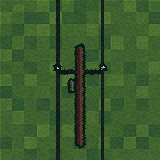
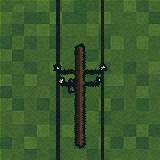
feat(studio): double-crossarm hydro pole and the sprite pack stage
- The hydro pole gets a second, shorter crossarm at z 1.67 — its screen
  height projects exactly to the lower EW wire's anchor line, so both
  sagging wires now visually hang from an arm (each with porcelain
  insulator dots at the tips). Classic double-arm hydro silhouette on the
  NS tile as a bonus.
- `pack.mjs`: the spec's stage-5 pack step. Copies approved
  `rich-pixel-48` renders into `studio/dist/assets/tiles/` under game
  sprite names (34 sprites: 15 roads replacing the 128 px set, 15 new
  rails, 2 rail-road crossings, 2 hydro lines under the existing
  `power-line-*` names) plus a `manifest.json`. Wiring `dist/` into
  `app/public/assets/` and the tile atlas stays a separate, gated step.

Changed region(s): [[0.5, 0.4688, 0.6562, 0.5625], [0.375, 0.4688, 0.4688, 0.5625]]

diff --git a/studio/scenes/pole.py b/studio/scenes/pole.py
@@ -24,13 +24,16 @@ def build(mats):
     # enough (0.17 ~ 2 art cells) that the wood material shows between its
     # ink outlines. Wood role — shaded two-tone by the studio sun.
     box(mats, 'tie', (0, 0, 1.35), (0.17, 0.17, 2.7))
-    # Single long crossarm spanning the wire gauge (tips at ±0.575 screen),
-    # oriented perpendicular to the camera azimuth so it reads horizontal.
-    box(mats, 'tie', (0, 0, 2.0), (1.15, 0.09, 0.08), (0, 0, math.radians(135)))
-    # Porcelain insulators on the arm tips (trim role), where wires attach.
-    for side in (1, -1):
-        tip = 0.575 * side
-        box(mats, 'trim', (tip * -0.707, tip * 0.707, 2.11), (0.12, 0.12, 0.13))
+    # Double crossarms (classic hydro), oriented perpendicular to the camera
+    # azimuth so they read horizontal. Their heights project to the two EW
+    # wire anchor lines (0.894*z - overlay offset): z 2.0 -> +0.79, z 1.67 ->
+    # +0.49 — so BOTH sagging wires hang from an arm, and the NS wires meet
+    # the upper arm's tips. Porcelain insulators (trim) mark the attachments.
+    for z, length in ((2.0, 1.15), (1.67, 0.95)):
+        box(mats, 'tie', (0, 0, z), (length, 0.09, 0.08), (0, 0, math.radians(135)))
+        for side in (1, -1):
+            tip = (length / 2) * side
+            box(mats, 'trim', (tip * -0.707, tip * 0.707, z + 0.11), (0.12, 0.12, 0.13))
     # Transformer can hanging right of the pole below the arm (grey).
     stub = 0.20
     box(mats, 'step', (stub * 0.707, -stub * 0.707, 1.62), (0.14, 0.14, 0.32))

diff --git a/studio/scenes/power.py b/studio/scenes/power.py
@@ -25,8 +25,9 @@ VARIANT = 'ns'
 WIRE_OFFSET = 0.56   # the pole's crossarm-tip gauge — wires attach there
 WIRE_W = 0.09
 SAG = 0.22           # catenary dip at the tile edge (elevation-view wires)
-EW_ANCHORS = (0.79, 0.50)  # wire heights at the pole: crossarm height, with
-                           # the near-side wire drawn slightly lower for depth
+EW_ANCHORS = (0.79, 0.49)  # wire heights at the pole — each matches one of
+                           # the pole's two crossarm heights, so both wires
+                           # visually hang from an arm
 
 
 def build(mats):

diff --git a/studio/AUTHORING.md b/studio/AUTHORING.md
@@ -22,6 +22,8 @@ cd studio && bun stylize.mjs <scene>                    # instant
 
 Always view the sprite at 4× (nearest-neighbour upscale) before judging detail, and always look at the contact sheet before declaring victory — the sprite must sit beside the existing game art, not just look good alone.
 
+Once an asset set is approved, `bun pack.mjs` copies its `rich-pixel-48` renders into `studio/dist/assets/tiles/` under game sprite names (the pack list lives in `pack.mjs`). Wiring `dist/` into `app/public/assets/` + the tile atlas is a separate, explicitly approved step.
+
 ## Invariants — never touch these
 
 The camera, sun, world lighting, render settings, and pass logic live in `studiolib.py` and are identical for every asset. That sameness is what makes a hundred sprites read as one game. If your building looks wrong, fix the *building* (geometry, proportions, rotation), never the camera or light.
